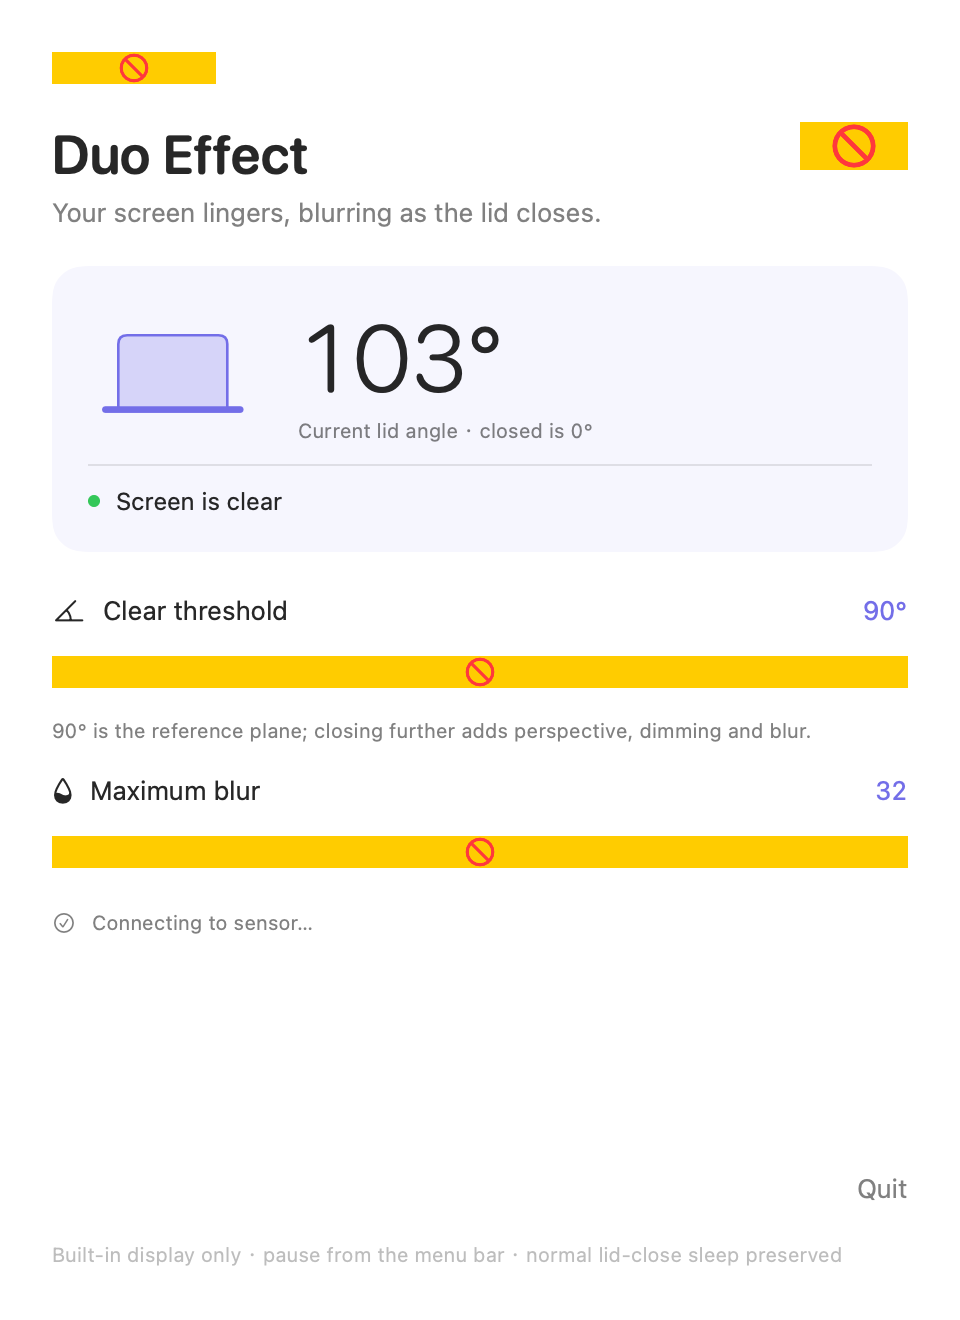
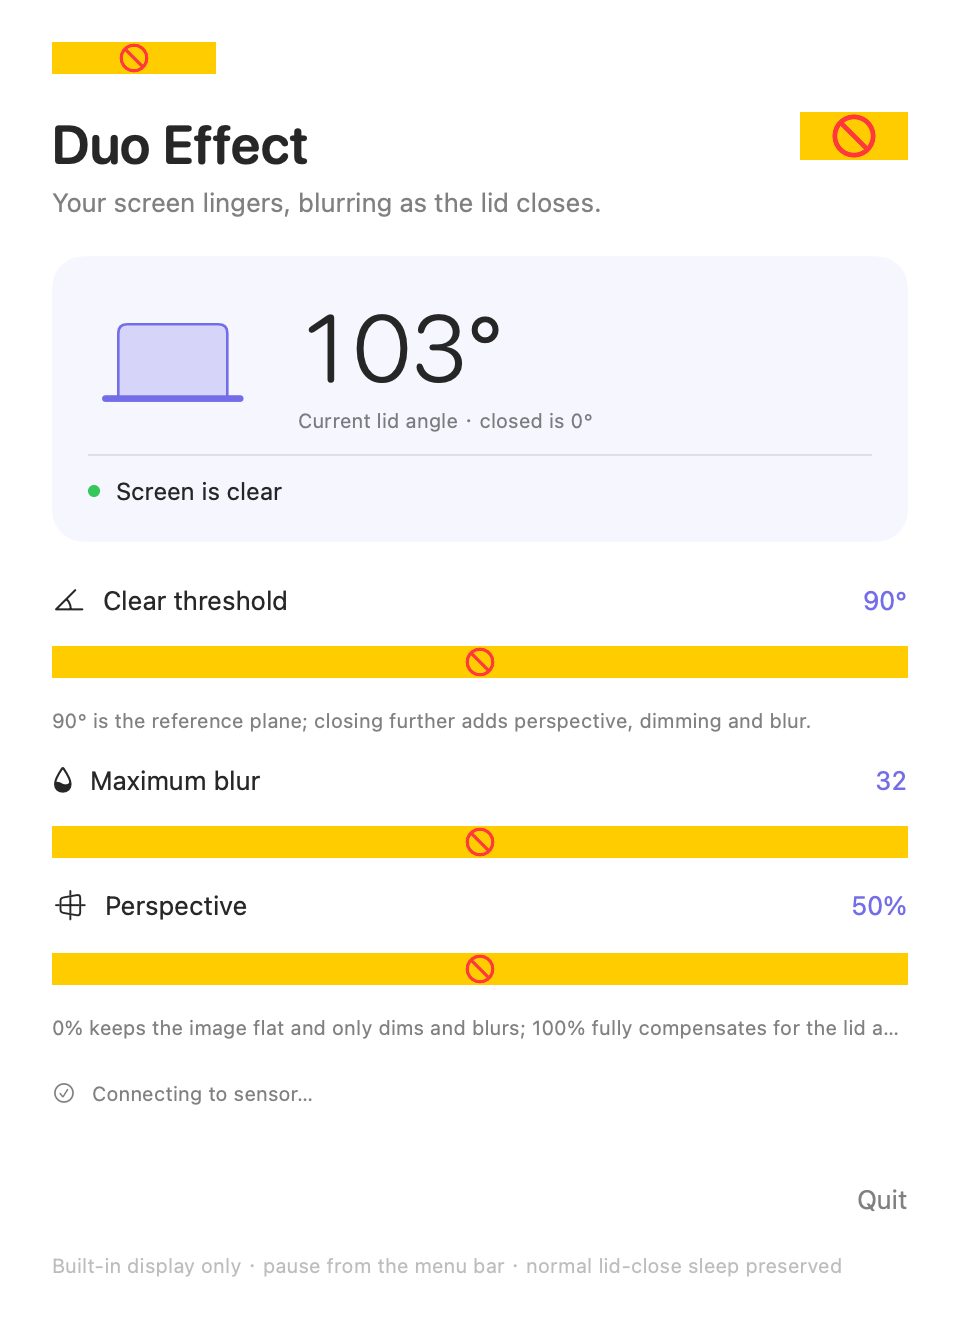
Add a perspective strength slider
The exact projection is faithful to the model but reads as harsh on a real
lid, whose physical tilt the eye already sees, and no single viewpoint
softens both the narrowing and the crop at once. Blend between a flat image
and the full projection instead: 0% only dims and blurs, 100% is the full
compensation, default 50%. Persisted like the other settings.

diff --git a/Sources/AppController.swift b/Sources/AppController.swift
@@ -17,6 +17,9 @@ final class AppModel: ObservableObject {
     @Published var maximum = 32.0 {
         didSet { UserDefaults.standard.set(maximum, forKey: "maximum"); onChange?() }
     }
+    @Published var perspective = 0.5 {
+        didSet { UserDefaults.standard.set(perspective, forKey: "perspective"); onChange?() }
+    }
     var onChange: (() -> Void)?
     var requestPermission: (() -> Void)?
     var preview: (() -> Void)?
@@ -24,12 +27,14 @@ final class AppModel: ObservableObject {
     var quit: (() -> Void)?
     init() {
         let defaults = UserDefaults.standard
-        defaults.register(defaults: ["enabled": true, "threshold": 90.0, "maximum": 32.0])
+        defaults.register(defaults: ["enabled": true, "threshold": 90.0, "maximum": 32.0, "perspective": 0.5])
         enabled = defaults.bool(forKey: "enabled")
         let x = defaults.double(forKey: "threshold")
         threshold = x.isFinite ? min(140, max(10, x)) : 90
         let blur = defaults.double(forKey: "maximum")
         maximum = blur.isFinite ? min(60, max(1, blur)) : 32
+        let depth = defaults.double(forKey: "perspective")
+        perspective = depth.isFinite ? min(1, max(0, depth)) : 0.5
     }
     var stateText: String {
         if !enabled { return t("Effect paused", "效果已暂停") }
@@ -202,7 +207,7 @@ final class AppController: NSObject, NSApplicationDelegate {
             lastEffectActive = desired > 0
             DebugLog.shared.log("effect \(lastEffectActive ? "on" : "off") angle=\(angle.map { String(format: "%.1f", $0) } ?? "nil") threshold=\(Int(model.threshold)) permission=\(model.permission) sleeping=\(sleeping)")
         }
-        overlay.update(radius: model.radius, geometry: EffectModel.geometry(angle: angle, threshold: model.threshold))
+        overlay.update(radius: model.radius, geometry: EffectModel.geometry(angle: angle, threshold: model.threshold, strength: model.perspective))
         refreshMenuTitles()
     }
 
@@ -344,6 +349,16 @@ struct SettingsView: View {
                 }
                 Slider(value: $model.maximum, in: 1...60, step: 1).tint(accent)
                     .accessibilityLabel(t("Maximum blur strength", "最大模糊强度"))
+                HStack {
+                    Label(t("Perspective", "透视强度"), systemImage: "perspective")
+                    Spacer()
+                    Text("\(Int((model.perspective * 100).rounded()))%").monospacedDigit().foregroundStyle(accent)
+                }
+                Slider(value: $model.perspective, in: 0...1, step: 0.05).tint(accent)
+                    .accessibilityLabel(t("Perspective strength", "透视强度"))
+                Text(t("0% keeps the image flat and only dims and blurs; 100% fully compensates for the lid angle.",
+                       "0% 画面不变形、只暗化和模糊；100% 完整补偿盖子角度。"))
+                    .font(.caption).foregroundStyle(.secondary)
             }.padding(.vertical, 2)
 
             if !model.permission {

diff --git a/Sources/EffectModel.swift b/Sources/EffectModel.swift
@@ -30,11 +30,16 @@ enum EffectModel {
     /// edge stays put and only the top edge moves: `topHeight` is where the
     /// content's top lands along the lid (>1 is past its edge and cropped) and
     /// `topWidth` is the width scale there.
-    static func geometry(angle: Double?, threshold: Double) -> EffectGeometry {
+    /// `strength` scales how much of the projection is applied: 0 leaves the
+    /// image flat (only dimming and blur), 1 is the full geometric compensation.
+    /// The full projection is faithful to the model but reads as harsh on a real
+    /// lid, whose physical tilt the eye already sees.
+    static func geometry(angle: Double?, threshold: Double, strength: Double = 1) -> EffectGeometry {
         guard let angle, angle.isFinite, (0...360).contains(angle),
               threshold.isFinite, threshold > 0, angle < threshold else { return .identity }
         let amount = min(1, max(0, 1 - angle / threshold))
         let darkness = 0.65 * amount * amount * (3 - 2 * amount)
+        let k = strength.isFinite ? min(1, max(0, strength)) : 1
         let x = threshold * .pi / 180
         let y = max(angle, threshold - maximumDelta, minimumLid) * .pi / 180
         // Side view: z toward the eye, y up. The content's top edge on plane x, the
@@ -50,7 +55,8 @@ enum EffectModel {
         let (qz, qy) = (ez + t * (pz - ez), ey + t * (py - ey))
         let along = qz * cos(y) + qy * sin(y)
         // t is also the lateral scale: the top edge projects toward the eye's centre line.
-        return EffectGeometry(topHeight: min(3, along), topWidth: max(0.08, t), darkness: darkness)
+        let height = min(3, along), width = max(0.08, t)
+        return EffectGeometry(topHeight: 1 + k * (height - 1), topWidth: 1 - k * (1 - width), darkness: darkness)
     }
 
     static func radius(angle: Double?, threshold: Double, maximum: Double, enabled: Bool) -> Double {

diff --git a/Tests/main.swift b/Tests/main.swift
@@ -39,6 +39,13 @@ for x in stride(from: 10.0, through: 140, by: 1) {
         }
     }
 }
+// Strength blends between a flat image and the full projection; dimming is unaffected.
+let full = EffectModel.geometry(angle: 45, threshold: 90, strength: 1)
+let flat = EffectModel.geometry(angle: 45, threshold: 90, strength: 0)
+let half = EffectModel.geometry(angle: 45, threshold: 90, strength: 0.5)
+check(flat.topHeight == 1 && flat.topWidth == 1 && flat.darkness == full.darkness, "zero strength is flat but still dims")
+check(half.topWidth > full.topWidth && half.topWidth < 1 && half.topHeight > 1 && half.topHeight < full.topHeight, "half strength sits between")
+check(EffectModel.geometry(angle: 45, threshold: 90, strength: 7) == full, "strength clamps to 1")
 // The exact projection follows the reference angle, not just the difference:
 // above 90° the reference plane leans away, so its content shrinks onto the lid.
 let leaning = EffectModel.geometry(angle: 90, threshold: 120)
